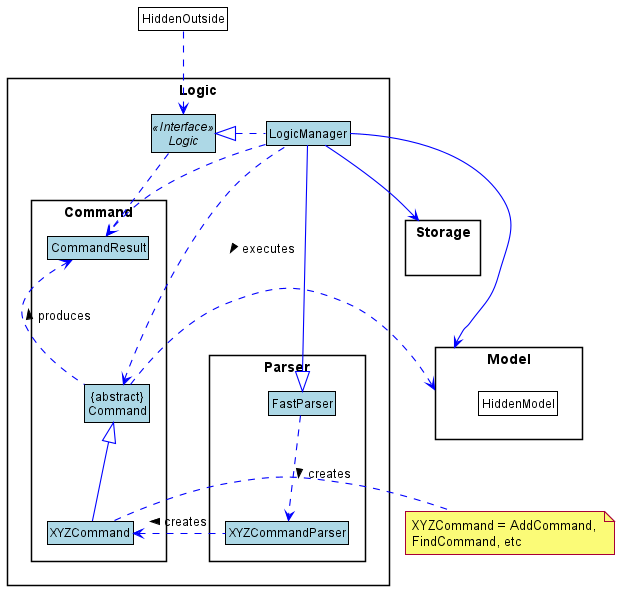
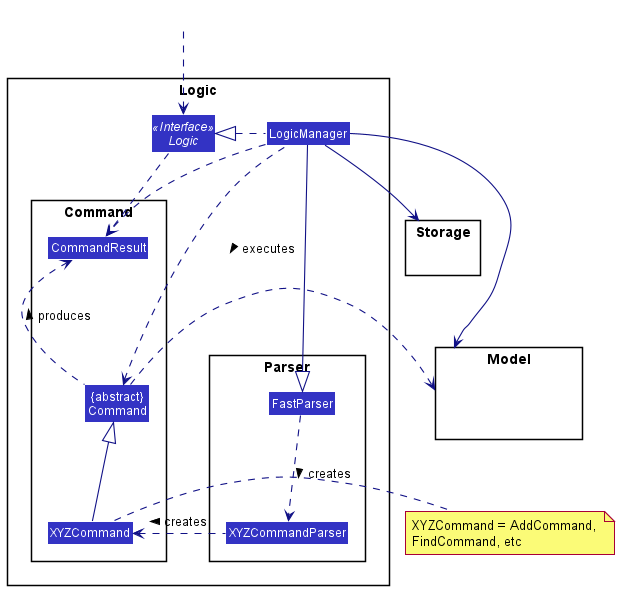
Fix format and color issues

diff --git a/docs/DeveloperGuide.md b/docs/DeveloperGuide.md
@@ -52,15 +52,15 @@ Given below is a quick overview of main components and how they interact with ea
 **Main components of the architecture**
 
 There are the 6 major components of **FAST**:
-1) **`Main`** has two classes called [`Main`](https://github.com/AY2122S1-CS2103T-T09-4/tp/blob/master/src/main/java/seedu/fast/Main.java) and [`MainApp`](https://github.com/AY2122S1-CS2103T-T09-4/tp/blob/master/src/main/java/seedu/fast/MainApp.java). It is responsible for,
+1. **`Main`** has two classes called [`Main`](https://github.com/AY2122S1-CS2103T-T09-4/tp/blob/master/src/main/java/seedu/fast/Main.java) and [`MainApp`](https://github.com/AY2122S1-CS2103T-T09-4/tp/blob/master/src/main/java/seedu/fast/MainApp.java). It is responsible for,
    * At app launch: Initializes the components in the correct sequence, and connects them up with each other.
    * At shut down: Shuts down the components and invokes cleanup methods where necessary.
 
-2) [**`Commons`**](#common-classes) represents a collection of classes used by multiple other components.
-3) [**`UI`**](#ui-component): The UI of the **FAST**.
-4) [**`Logic`**](#logic-component): The command executor.
-5) [**`Model`**](#model-component): Holds the data of the **FAST** in memory.
-6) [**`Storage`**](#storage-component): Reads data from, and writes data to, the hard disk.
+2. [**`Commons`**](#common-classes) represents a collection of classes used by multiple other components.
+3. [**`UI`**](#ui-component): The UI of the **FAST**.
+4. [**`Logic`**](#logic-component): The command executor.
+5. [**`Model`**](#model-component): Holds the data of the **FAST** in memory.
+6. [**`Storage`**](#storage-component): Reads data from, and writes data to, the hard disk.
 
 Each of the four main components(*labelled 3-6*) (also shown in the diagram above),
 
